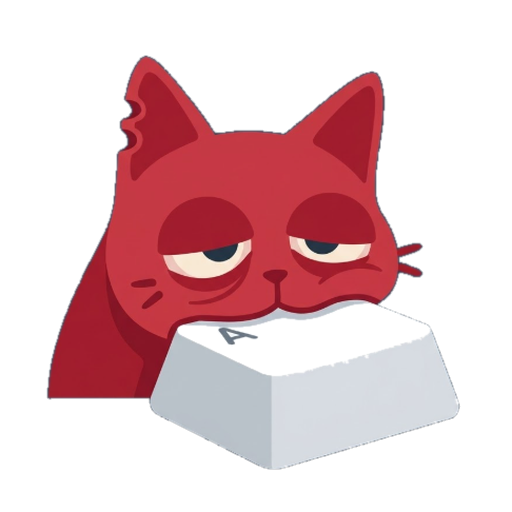
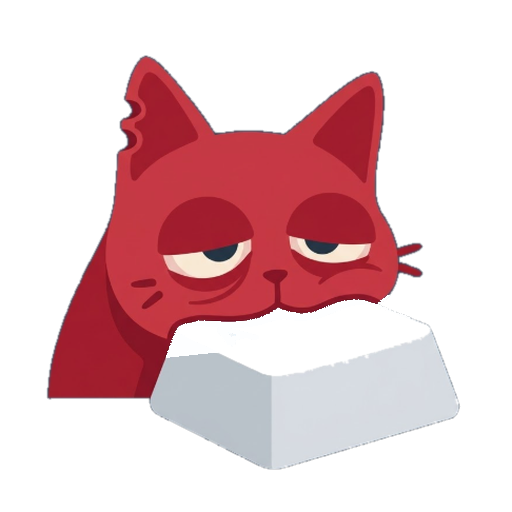
fix: clean mascot keycap surface and provide direct stream & download links for video reel

Changed region(s): [[0.3125, 0.5625, 0.7188, 0.7188]]

diff --git a/README.md b/README.md
@@ -18,11 +18,15 @@
   <br /><br />
 
   <!-- Hero Reel Animated Showcase -->
-  <a href="./assets/lazytype_demo_reel.mp4">
+  <a href="https://raw.githubusercontent.com/Praful-7723/lazytype/main/assets/lazytype_demo_reel.mp4">
     <img src="./assets/demo_reel.gif" alt="LazyType Stealth Typing Demo" width="360" />
   </a>
-  <br />
-  <sub>🎬 <b><a href="./assets/lazytype_demo_reel.mp4">Watch Full 60fps Master Video Reel (30s)</a></b> · Zero latency · Local peer-to-peer · Native macOS</sub>
+  <br /><br />
+  <p align="center">
+    <a href="https://raw.githubusercontent.com/Praful-7723/lazytype/main/assets/lazytype_demo_reel.mp4"><img src="https://img.shields.io/badge/▶_WATCH_VIDEO_(WITH_AUDIO)-FF3838?style=for-the-badge&logo=youtube&logoColor=white" alt="Watch Video" /></a>
+    <a href="https://github.com/Praful-7723/lazytype/releases/download/v2.0.0/lazytype_demo_reel.mp4"><img src="https://img.shields.io/badge/DOWNLOAD_MP4_(60FPS)-20242A?style=for-the-badge&logo=quicktime&logoColor=white" alt="Download MP4" /></a>
+  </p>
+  <sub>Zero latency · Local peer-to-peer · Native macOS</sub>
 </div>
 
 <br />
